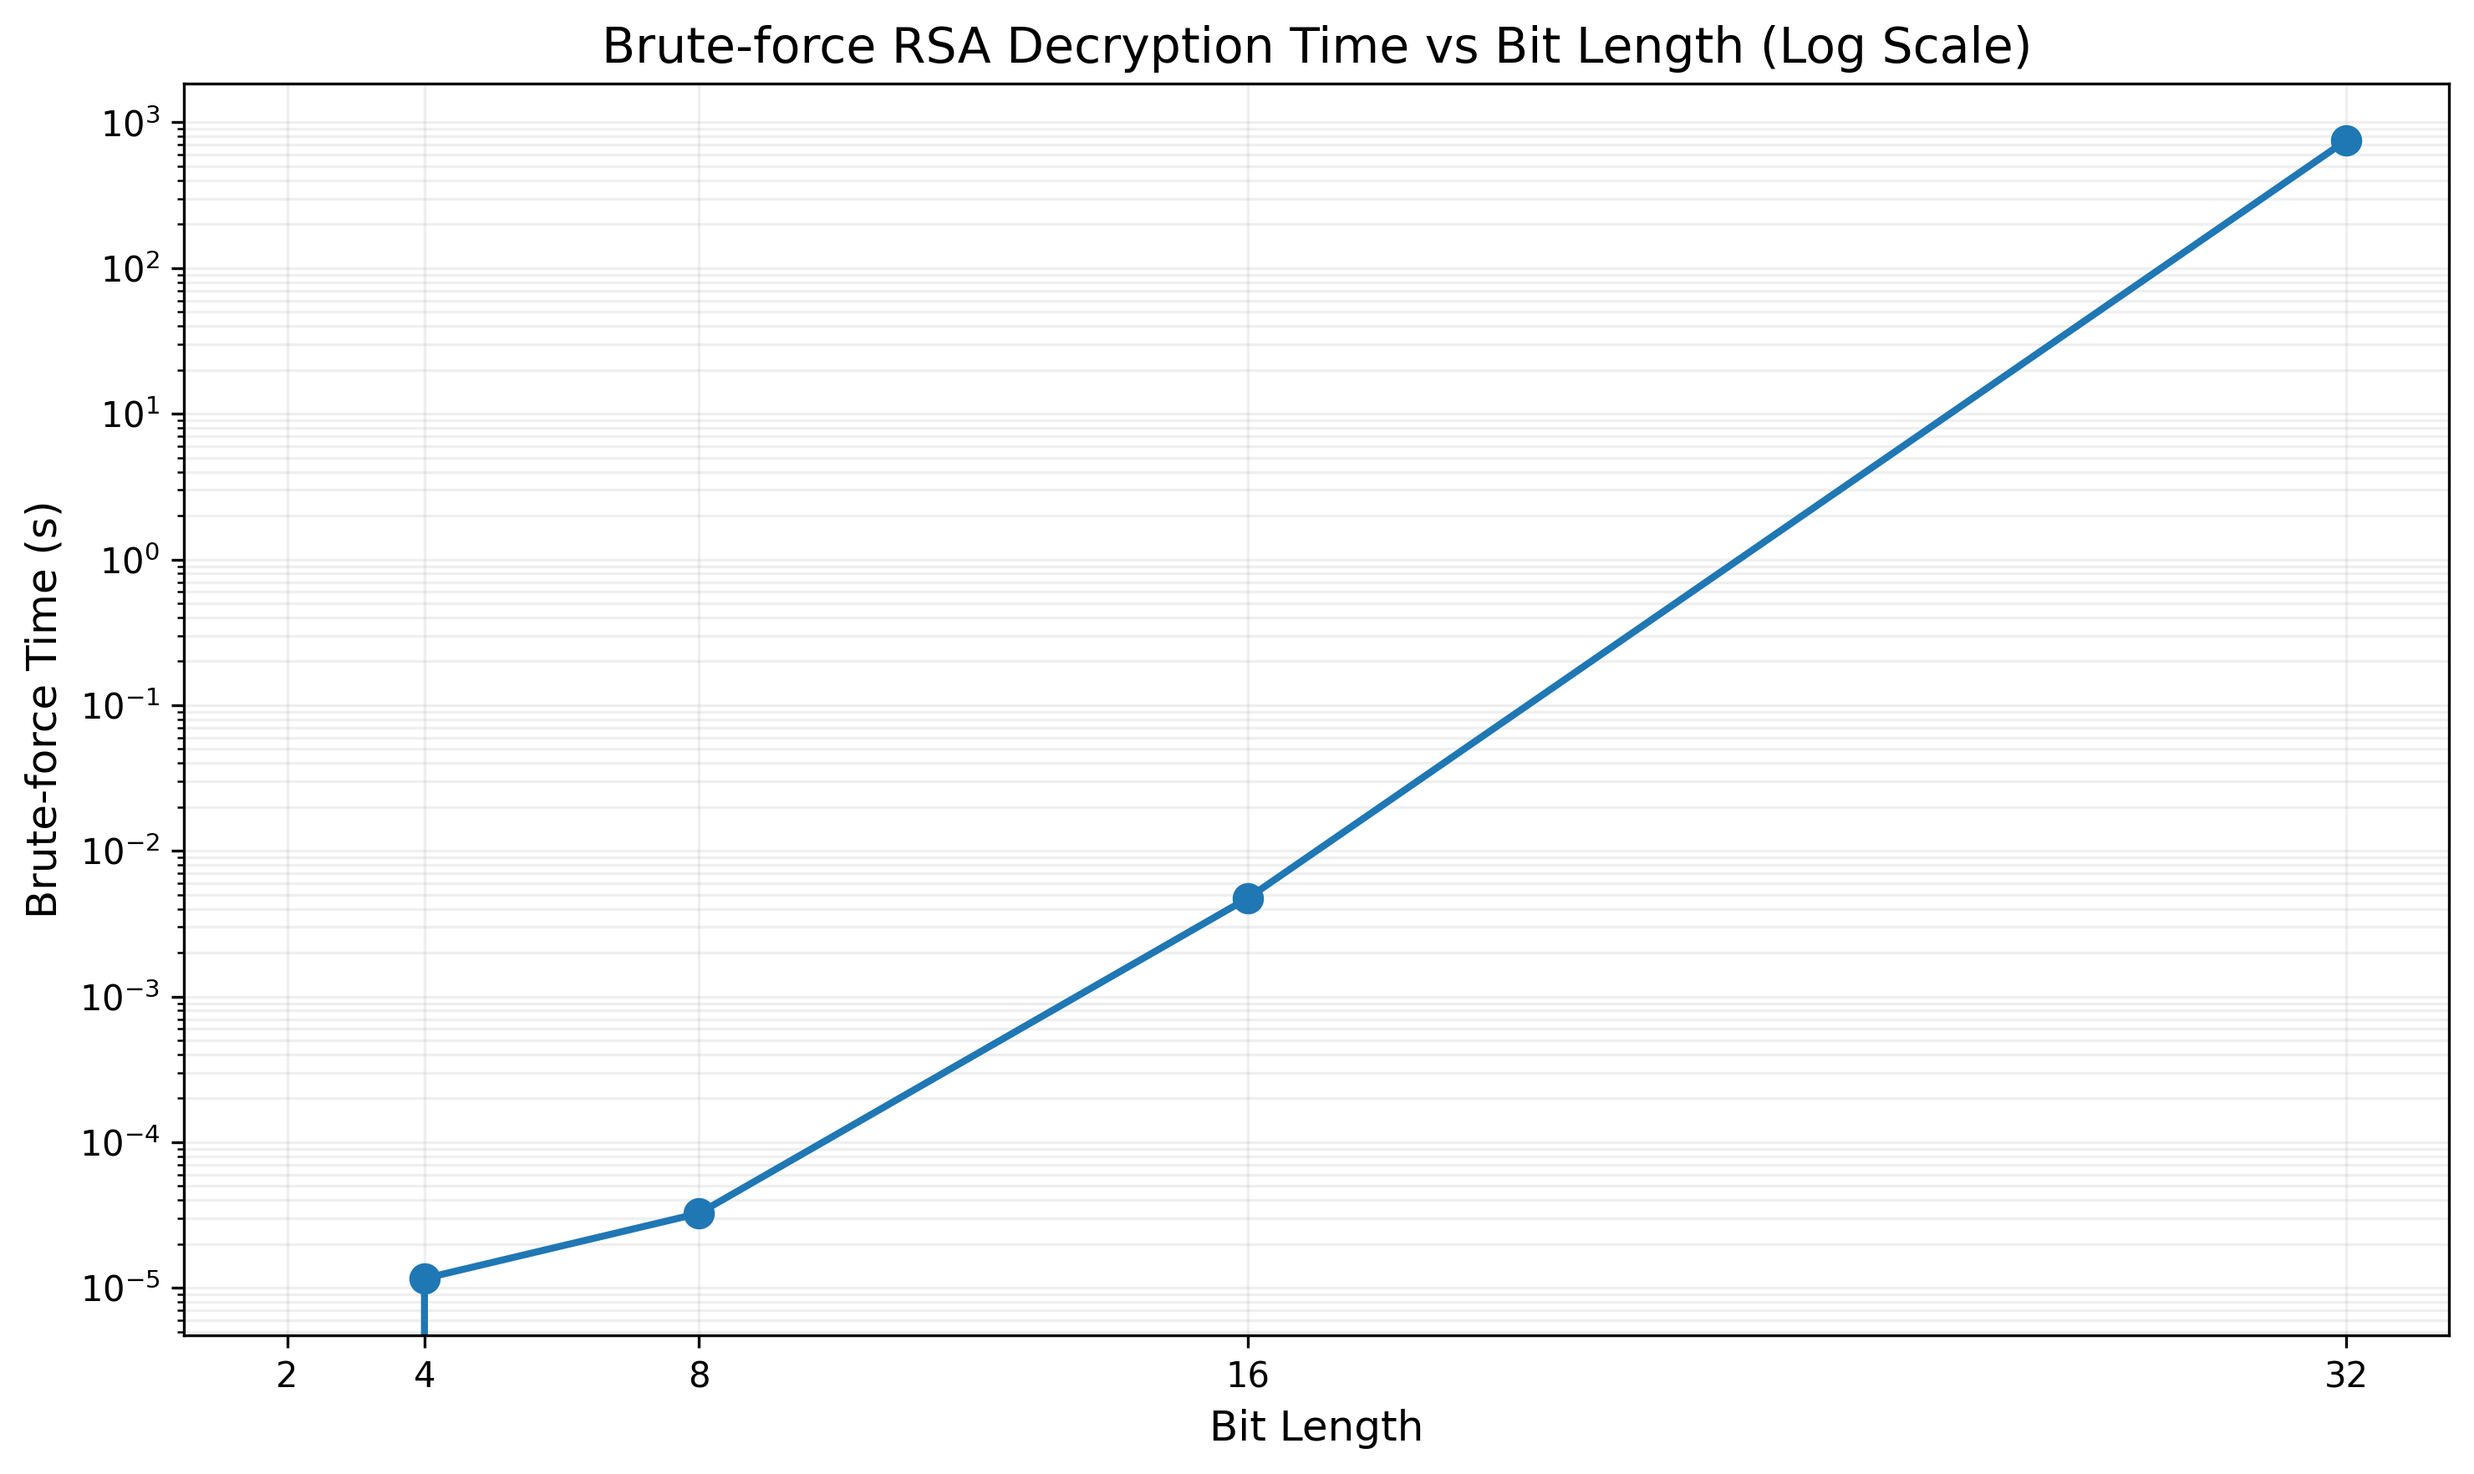
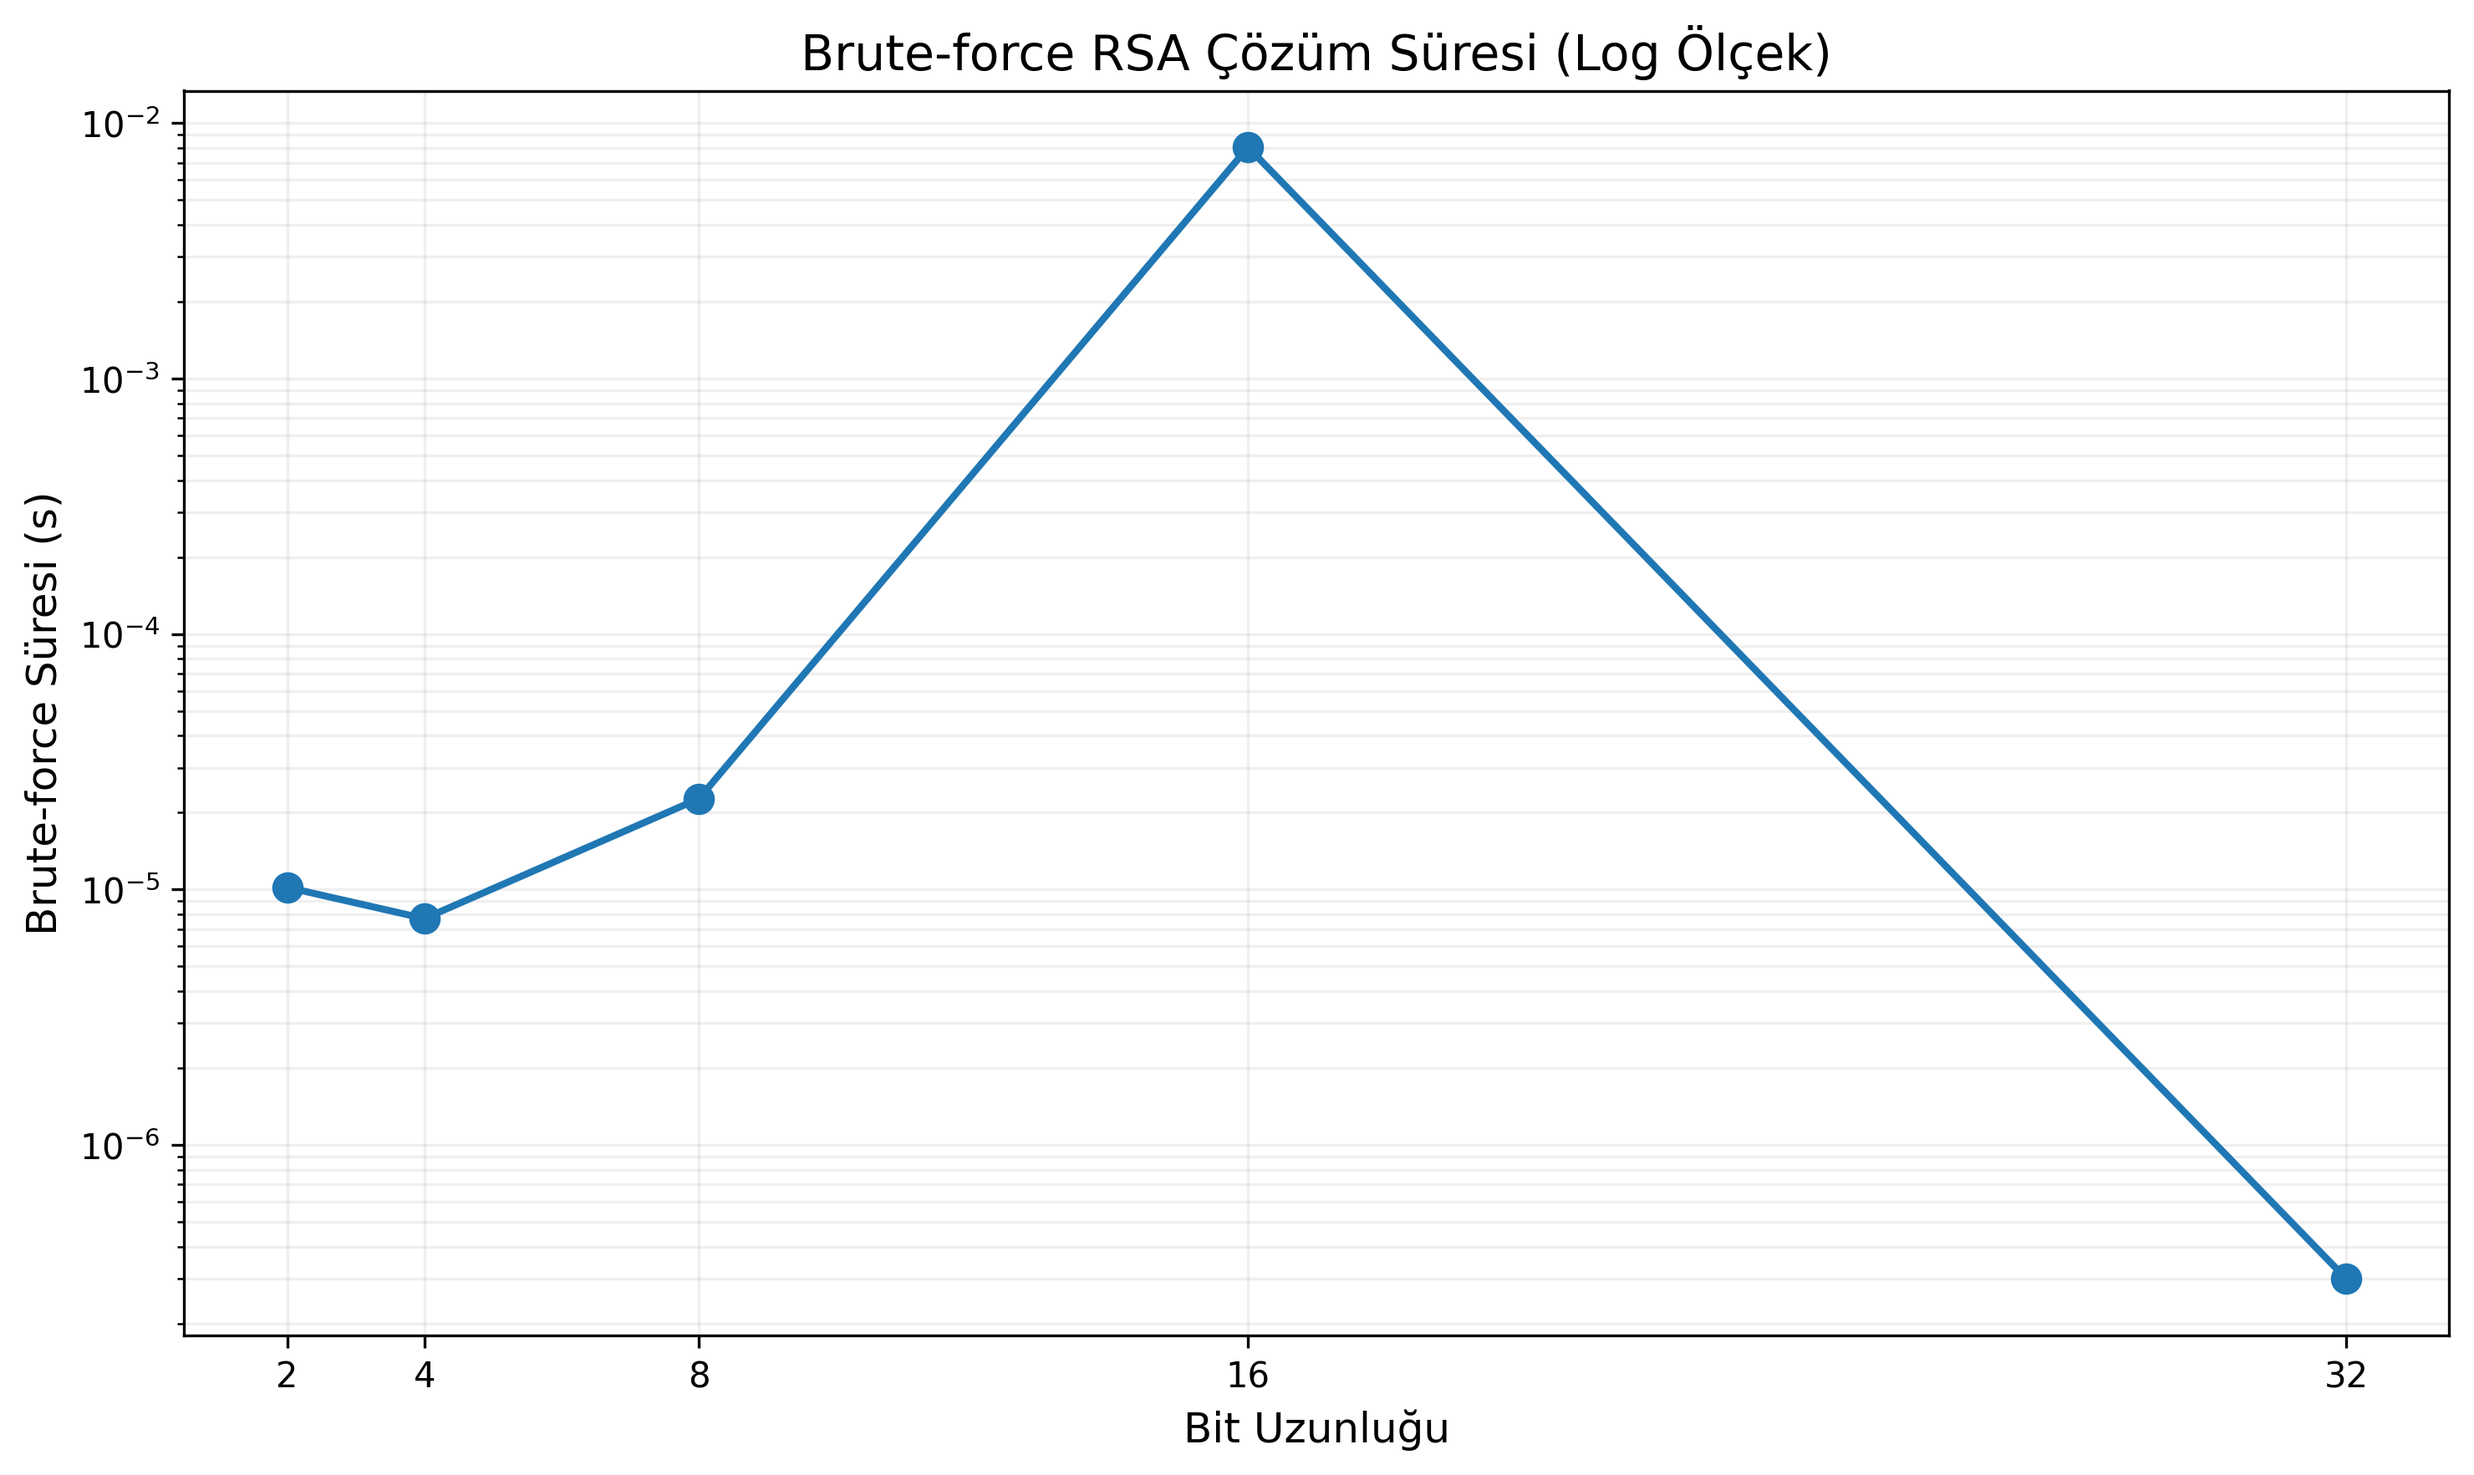
RSA_KEY_DUZELTME

diff --git a/rsa_bruteforce.py b/rsa_bruteforce.py
@@ -28,88 +28,88 @@ def generate_rsa_keypair(bits):
     e = 65537 if bits >= 16 else 17
     while GCD(e, phi) != 1:
         e += 2  
-    
     d = inverse(e, phi)
     return (e, n), (d, n), p, q
 
-def estimate_256bit_crack_time(elapsed_32bit, bits=256):
-    bit_diff = bits - 32
-    complexity_ratio = 2 ** (bit_diff // 2)
-    estimated_time_seconds = elapsed_32bit * complexity_ratio
+# 256-bit modül için (yani 256-bit RSA) tahmin fonksiyonu:
+def estimate_256bit_RSA_time(elapsed_32bit):
+    # 32-bit asal kullanıldığında modül yaklaşık 64-bit (karekök: 2^(64/2) = 2^32)
+    # 256-bit modül için karekök yaklaşık 2^(256/2) = 2^128 adım olacaktır.
+    # Ölçeklendirme faktörü: 2^(128) / 2^(32) = 2^(96)
+    scaling_factor = 2 ** (128 - 32)  # 2^96
+    estimated_time_seconds = elapsed_32bit * scaling_factor
     return estimated_time_seconds
-
-def format_seconds(seconds):
-    if seconds < 60:
-        return f"{seconds:.2e} seconds"
-    elif seconds < 3600:
-        return f"{seconds/60:.2e} minutes"
-    elif seconds < 86400:
-        return f"{seconds/3600:.2e} hours"
-    elif seconds < 31536000:
-        return f"{seconds/86400:.2e} days"
-    else:
-        return f"{seconds/31536000:.2e} years"
 
 def estimate_supercomputer_time(local_seconds, local_flops=1e11, super_flops=1.1e18):
     speedup = super_flops / local_flops
     return local_seconds / speedup
 
-# === Main Execution ===
+def format_seconds(seconds):
+    if seconds < 60:
+        return f"{seconds:.2e} saniye"
+    elif seconds < 3600:
+        return f"{seconds/60:.2e} dakika"
+    elif seconds < 86400:
+        return f"{seconds/3600:.2e} saat"
+    elif seconds < 31536000:
+        return f"{seconds/86400:.2e} gün"
+    else:
+        return f"{seconds/31536000:.2e} yıl"
 
+# === Ana Yürütme ===
 messages = {
-    2: "\x01",  # ASCII value 1
-    4: "\x01",  # ASCII value 1
-    8: "\x01",  # ASCII value 1
-    16: "A",    # ASCII value 65
-    32: "A"     # ASCII value 65
+    2: "\x01",  # ASCII 1
+    4: "\x01",
+    8: "\x01",
+    16: "A",
+    32: "A"
 }
 
 bit_lengths = [2, 4, 8, 16, 32]
 timings = []
 
 for bits in bit_lengths:
-    print(f"\n🔐 Brute-forcing {bits}-bit RSA...")
+    print(f"\n🔐 {bits}-bit RSA brute force çalıştırılıyor...")
     public, private, p, q = generate_rsa_keypair(bits)
     e, n = public
-    
     message = messages[bits]
     message_int = str_to_int(message)
     
     if message_int >= n:
-        print(f"⚠ Skipping {bits}-bit: message too large for modulus n={n}")
+        print(f"⚠ {bits}-bit için atlanıyor: mesaj n'den büyük, n={n}")
         timings.append(0)
         continue
-
+    
     ciphertext = pow(message_int, e, n)
     start = time.perf_counter()
-    recovered, pf, qf = brute_force_rsa(e, n, ciphertext, timeout=1000)
+    if bits != 32:
+        recovered, pf, qf = brute_force_rsa(e, n, ciphertext, timeout=1000)
     end = time.perf_counter()
     elapsed = end - start
-
     timings.append(elapsed)
+    print(f"⏱ Süre: {elapsed:.8f}s | Geri elde edilen mesaj: {recovered} | p={pf}, q={qf}")
 
-    print(f"⏱ Time: {elapsed:.8f}s | Recovered: {recovered} | p={pf}, q={qf}")
-
-# === Plotting ===
+# Performans karşılaştırması için grafik çizimi:
 plt.figure(figsize=(10, 6))
 plt.semilogy(bit_lengths, timings, marker='o', linewidth=2, markersize=8)
-plt.xlabel("Bit Length", fontsize=12)
-plt.ylabel("Brute-force Time (s)", fontsize=12)
-plt.title("Brute-force RSA Decryption Time vs Bit Length (Log Scale)", fontsize=14)
+plt.xlabel("Bit Uzunluğu", fontsize=12)
+plt.ylabel("Brute-force Süresi (s)", fontsize=12)
+plt.title("Brute-force RSA Çözüm Süresi (Log Ölçek)", fontsize=14)
 plt.grid(True, which="both", ls="-", alpha=0.2)
 plt.xticks(bit_lengths)
 plt.tight_layout()
 plt.savefig("brute_force_times.png", dpi=300, bbox_inches='tight')
 plt.show()
 
-# === Estimations for 256-bit ===
-if 32 in bit_lengths and timings[bit_lengths.index(32)] > 0:
-    elapsed_32bit = timings[bit_lengths.index(32)]
-    estimated_256bit_time = estimate_256bit_crack_time(elapsed_32bit)
-    frontier_time = estimate_supercomputer_time(estimated_256bit_time)
-
-    print("\n📈 Estimated Time to Crack 256-bit RSA:")
-    print("🖥  Local System:", format_seconds(estimated_256bit_time))
-    print("💻  Frontier Supercomputer:", format_seconds(frontier_time))
+# 32-bit RSA için ölçülen zamanı baz alarak tahmin yapalım:
+index_32 = bit_lengths.index(32)
+if timings[index_32] > 0:
+    elapsed_32bit = timings[index_32]
+    estimated_time = estimate_256bit_RSA_time(elapsed_32bit)
+    frontier_time = estimate_supercomputer_time(estimated_time)
+    
+    print("\n📈 256-bit RSA için (modül 256-bit) tahmini kırma süresi:")
+    print("🖥  Yerel Sistem:", format_seconds(estimated_time))
+    print("💻  Frontier Süper Bilgisayar:", format_seconds(frontier_time))
 else:
-    print("\n⚠ Could not compute 256-bit estimate: 32-bit timing missing.")
+    print("\n⚠ 32-bit zamanlaması alınamadığı için tahmin yapılamadı.")

diff --git a/protocol.py b/protocol.py
@@ -1,0 +1,64 @@
+import secrets
+import string
+
+class Instructor:
+    def __init__(self, student_list):
+        self.student_list = student_list
+        self.token_map = {}
+        self.generate_tokens()
+
+    def generate_tokens(self):
+        for student in self.student_list:
+            token = ''.join(secrets.choice(string.ascii_letters + string.digits) for _ in range(16))
+            self.token_map[student] = token
+
+    def get_token_for_student(self, student):
+        return self.token_map.get(student)
+
+    def verify_submission(self, submitted_token):
+        return submitted_token in self.token_map.values()
+
+class Student:
+    def __init__(self, name, instructor: Instructor):
+        self.name = name
+        self.instructor = instructor
+        self.token = instructor.get_token_for_student(name)
+
+    def submit_work(self, work_content):
+        submission = {
+            'token': self.token,
+            'work': work_content
+        }
+        return submission
+
+def main():
+    registered_students = ['Ahmet', 'Ayşe', 'Mehmet', 'Elif']
+    instructor = Instructor(registered_students)
+    
+    print("Dağıtılan Token'lar:")
+    for student, token in instructor.token_map.items():
+        print(f"{student}: {token}")
+    print("--------------------------------------------------\n")
+
+    submissions = []
+    student_objects = [Student(name, instructor) for name in registered_students]
+    
+    for student in student_objects:
+        work_content = f"Bu benim ödevim, ben {student.name}."  
+        submission = student.submit_work(work_content)
+        submissions.append(submission)
+    
+    fake_submission = {
+        'token': "FAKE1234567890AB",  
+        'work': "Sahte ödev içeriği."
+    }
+    submissions.append(fake_submission)
+    
+    print("Gönderimlerin Doğrulanması:")
+    for i, sub in enumerate(submissions, 1):
+        is_valid = instructor.verify_submission(sub['token'])
+        status = "Geçerli" if is_valid else "Geçersiz"
+        print(f"Submission {i}: {status} (Token: {sub['token']})")
+    
+if __name__ == "__main__":
+    main()

diff --git a/anonymous_protocol/protocol.py b/anonymous_protocol/protocol.py
@@ -1,0 +1,49 @@
+from keys import generate_keys, save_keys_to_pem
+from instructor import Instructor
+from student import Student
+import secrets
+
+def main():
+    private_key, public_key = generate_keys(key_size=2048)
+    save_keys_to_pem(private_key, public_key)
+    
+    registered_students = ["Alice", "Bob", "Charlie", "Diana"]
+    
+    instructor = Instructor(registered_students, private_key, public_key)
+    credentials = instructor.issue_credentials()
+    
+    student_list = []
+    tokens = list(credentials.keys())
+    for i, student_name in enumerate(registered_students):
+        token = tokens[i]
+        signature = credentials[token]["signature"]
+        student_list.append(Student(student_name, (token, signature)))
+    
+    submissions = []
+    for student in student_list:
+        work_content = f"This work is prepared by {student.name}."
+        submission = student.submit_work(work_content)
+        submissions.append(submission)
+    
+    fake_token = "FAKE1234567890AB"
+    fake_signature = secrets.token_bytes(256)  
+    fake_submission = {
+        "credential": {
+            "token": fake_token,
+            "signature": fake_signature.hex()
+        },
+        "work": "Fake work content."
+    }
+    submissions.append(fake_submission)
+    
+    print("Submission Verification Results:")
+    for i, submission in enumerate(submissions, start=1):
+        cred = submission["credential"]
+        token = cred["token"]
+        signature = bytes.fromhex(cred["signature"])
+        valid = instructor.verify_credential(token, signature)
+        status = "Valid" if valid else "Invalid"
+        print(f"Submission {i}: {status} - Token: {token}")
+
+if __name__ == '__main__':
+    main()

diff --git a/anonymous_protocol/instructor.py b/anonymous_protocol/instructor.py
@@ -1,0 +1,27 @@
+import secrets
+import string
+from Crypto.Signature import pkcs1_15
+from Crypto.Hash import SHA256
+
+class Instructor:
+    def __init__(self, student_names, private_key, public_key):
+        self.student_names = student_names
+        self.private_key = private_key
+        self.public_key = public_key
+        self.credentials = {}  
+    
+    def issue_credentials(self):
+        for name in self.student_names:
+            token = ''.join(secrets.choice(string.ascii_letters + string.digits) for _ in range(16))
+            h = SHA256.new(token.encode())
+            signature = pkcs1_15.new(self.private_key).sign(h)
+            self.credentials[token] = {"name": name, "signature": signature}
+        return self.credentials
+    
+    def verify_credential(self, token, signature):
+        try:
+            h = SHA256.new(token.encode())
+            pkcs1_15.new(self.public_key).verify(h, signature)
+            return True
+        except (ValueError, TypeError):
+            return False

diff --git a/anonymous_protocol/keys.py b/anonymous_protocol/keys.py
@@ -1,0 +1,12 @@
+from Crypto.PublicKey import RSA
+
+def generate_keys(key_size=2048):
+    key = RSA.generate(key_size)
+    return key, key.publickey()
+
+def save_keys_to_pem(private_key, public_key, private_filename="instructor_private.pem", public_filename="instructor_public.pem"):
+    with open(private_filename, "wb") as f:
+        f.write(private_key.export_key(format='PEM'))
+    
+    with open(public_filename, "wb") as f:
+        f.write(public_key.export_key(format='PEM'))

diff --git a/anonymous_protocol/student.py b/anonymous_protocol/student.py
@@ -1,0 +1,14 @@
+class Student:
+    def __init__(self, name, credential):
+        self.name = name
+        self.credential = credential
+
+    def submit_work(self, work_content):
+        submission = {
+            "credential": {
+                "token": self.credential[0],
+                "signature": self.credential[1].hex() 
+            },
+            "work": work_content
+        }
+        return submission
